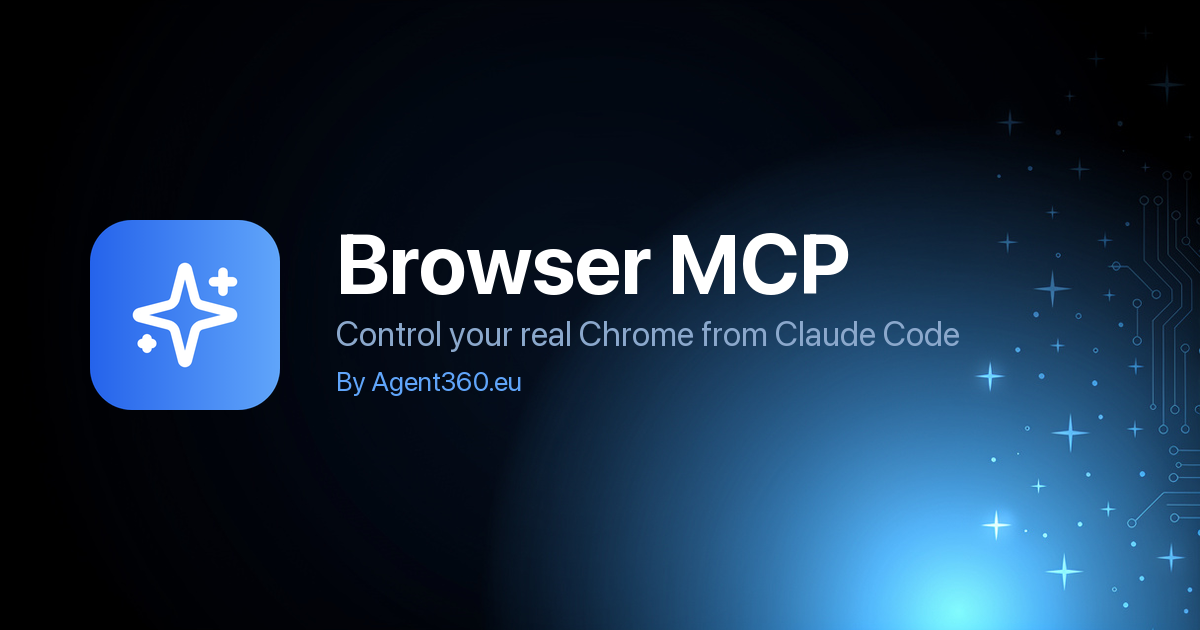
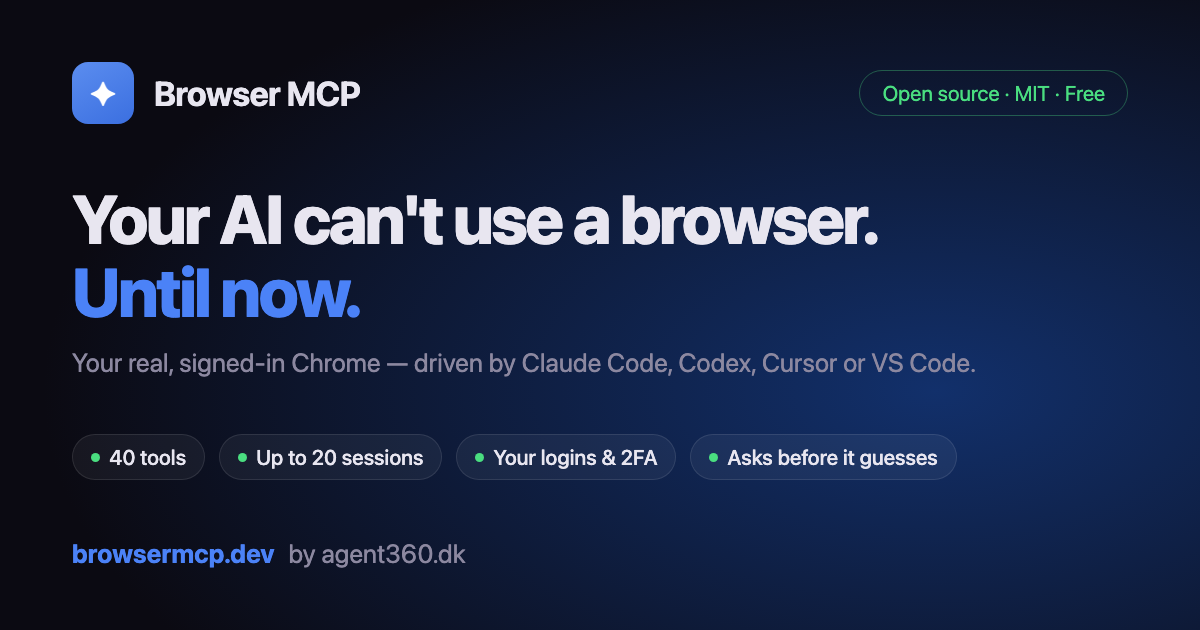
billeder: delingsbilledet sagde "34 tools" og forkert domaene - nu bygget fra kilden
MAALT 11/9: `docs/og-image.jpg` - billedet der vises hver gang browsermcp.dev
deles, og som ligger live - sagde "34 tools" og "by agent360.eu". Begge dele er
forkerte (40 vaerktoejer, agent360.dk), og de har staaet siden juni, fordi ingen
tekstvagt kan laese en JPEG. Demo-videoens scene sagde "21 tools".

- Ny kilde `demo-video-src/src/Social.tsx`: ét motiv i to formater (OgImage
  1200x630 til sitet, GithubSocial 1280x640 til GitHubs forhaandsbillede).
  Tekst: 40 tools · Up to 20 sessions · Your logins & 2FA · Asks before it
  guesses · browsermcp.dev by agent360.dk.
- Renderet til docs/og-image.jpg + .png og docs/github-social-1280x640.png.
- `test/billedkilder-tal.test.mjs`: billedkildernes vaerktoejstal skal vaere lig
  antallet i mcp-server/tools.js, domaenet skal vaere .dk, kompositionerne skal
  findes i de rigtige formater, og de billeder sitet peger paa skal eksistere.
  Kildekommentarer maa citere det de erstatter (samme regel som loefte-vagten).

Mutationsbevis 4/4.

diff --git a/demo-video-src/src/Social.tsx b/demo-video-src/src/Social.tsx
@@ -1,0 +1,85 @@
+import React from "react";
+import { AbsoluteFill } from "remotion";
+
+// Delingsbilledet (Open Graph) og GitHubs forhaandsbillede.
+//
+// MAALT 11/9-2026: det billede der laa live paa browsermcp.dev - og som blev vist hver gang linket blev delt - sagde
+// "34 tools" og "by agent360.eu". Begge dele var forkerte, og de havde staaet siden juni, fordi ingen vagt kan laese en
+// JPEG. Billedet bygges derfor herfra, og `test/billedkilder-tal.test.mjs` holder tallet op mod mcp-server/tools.js.
+
+const BG = "#0B0A12";
+const INK = "#E8E6F0";
+const DIM = "#8C88A0";
+const BLUE = "#4B82F7";
+const GREEN = "#4ADE80";
+const SANS = "Inter, -apple-system, BlinkMacSystemFont, 'Segoe UI', sans-serif";
+
+const Maerke: React.FC<{ size: number }> = ({ size }) => (
+  <div style={{
+    width: size, height: size, borderRadius: size * 0.26,
+    background: "linear-gradient(150deg, #5B8DEF 0%, #3B6FE0 100%)",
+    display: "flex", alignItems: "center", justifyContent: "center",
+    color: "#fff", fontSize: size * 0.52, fontWeight: 700,
+  }}>✦</div>
+);
+
+const Chip: React.FC<{ children: React.ReactNode; skala: number }> = ({ children, skala }) => (
+  <div style={{
+    display: "flex", alignItems: "center", gap: 9 * skala,
+    background: "rgba(255,255,255,0.05)", border: "1px solid rgba(255,255,255,0.10)",
+    borderRadius: 99, padding: `${10 * skala}px ${18 * skala}px`,
+    fontSize: 21 * skala, color: INK, fontWeight: 500,
+  }}>
+    <span style={{ width: 9 * skala, height: 9 * skala, borderRadius: 99, background: GREEN }} />
+    {children}
+  </div>
+);
+
+// Ét motiv, to formater: 1200x630 (Open Graph) og 1280x640 (GitHub).
+export const Social: React.FC<{ bredde?: number }> = ({ bredde = 1200 }) => {
+  const skala = bredde / 1200;
+  return (
+    <AbsoluteFill style={{
+      background: `radial-gradient(120% 120% at 78% 62%, #12306B 0%, ${BG} 62%)`,
+      fontFamily: SANS, color: INK, padding: `${62 * skala}px ${72 * skala}px`, justifyContent: "space-between",
+    }}>
+      <div style={{ display: "flex", alignItems: "center", justifyContent: "space-between" }}>
+        <div style={{ display: "flex", alignItems: "center", gap: 20 * skala }}>
+          <Maerke size={62 * skala} />
+          <div style={{ fontSize: 34 * skala, fontWeight: 700, letterSpacing: "-0.02em" }}>Browser MCP</div>
+        </div>
+        <div style={{
+          border: "1px solid rgba(74,222,128,0.35)", borderRadius: 99,
+          padding: `${10 * skala}px ${22 * skala}px`, fontSize: 21 * skala, color: GREEN,
+        }}>Open source · MIT · Free</div>
+      </div>
+
+      <div>
+        <div style={{ fontSize: 68 * skala, fontWeight: 800, letterSpacing: "-0.035em", lineHeight: 1.08 }}>
+          Your AI can&apos;t use a browser.
+        </div>
+        <div style={{ fontSize: 68 * skala, fontWeight: 800, letterSpacing: "-0.035em", lineHeight: 1.08, color: BLUE }}>
+          Until now.
+        </div>
+        <div style={{ fontSize: 26 * skala, color: DIM, marginTop: 18 * skala }}>
+          Your real, signed-in Chrome — driven by Claude Code, Codex, Cursor or VS Code.
+        </div>
+      </div>
+
+      <div style={{ display: "flex", gap: 14 * skala, flexWrap: "wrap" }}>
+        <Chip skala={skala}>40 tools</Chip>
+        <Chip skala={skala}>Up to 20 sessions</Chip>
+        <Chip skala={skala}>Your logins &amp; 2FA</Chip>
+        <Chip skala={skala}>Asks before it guesses</Chip>
+      </div>
+
+      <div style={{ display: "flex", alignItems: "baseline", gap: 14 * skala, fontSize: 26 * skala }}>
+        <span style={{ color: BLUE, fontWeight: 700 }}>browsermcp.dev</span>
+        <span style={{ color: DIM }}>by agent360.dk</span>
+      </div>
+    </AbsoluteFill>
+  );
+};
+
+export const OgImage: React.FC = () => <Social bredde={1200} />;
+export const GithubSocial: React.FC = () => <Social bredde={1280} />;

diff --git a/demo-video-src/src/Root.tsx b/demo-video-src/src/Root.tsx
@@ -3,6 +3,7 @@ import { Composition } from "remotion";
 import { Demo } from "./Demo";
 import { Hero, HERO_DURATION } from "./Hero";
 import { StoreShots, STORE_COUNT, PromoTile, MarqueeTile } from "./Store";
+import { OgImage, GithubSocial } from "./Social";
 
 // 100 + 90 + 255 + 255 + 235 + 235 + 215 + 235 + 140 = 1760 (~59 sec)
 export const RemotionRoot: React.FC = () => {
@@ -27,6 +28,9 @@ export const RemotionRoot: React.FC = () => {
       />
       {/* Butikkens smaa brik (soegeresultater) og marquee (featuring) */}
       <Composition id="PromoTile" component={PromoTile} durationInFrames={1} fps={1} width={440} height={280} />
+      {/* Delingsbilledet (Open Graph, 1200x630) og GitHubs forhaandsbillede (1280x640) - ét motiv, to formater. */}
+      <Composition id="OgImage" component={OgImage} durationInFrames={1} fps={1} width={1200} height={630} />
+      <Composition id="GithubSocial" component={GithubSocial} durationInFrames={1} fps={1} width={1280} height={640} />
       <Composition id="MarqueeTile" component={MarqueeTile} durationInFrames={1} fps={1} width={1400} height={560} />
       <Composition
         id="Demo"

diff --git a/demo-video-src/src/Demo.tsx b/demo-video-src/src/Demo.tsx
@@ -457,7 +457,7 @@ const TitleCard: React.FC = () => {
         fontSize: 15, color: "#3b82f6", fontFamily: "SF Mono, monospace", marginTop: 6,
         opacity: interpolate(frame, [18, 30], [0, 1], { extrapolateRight: "clamp" }),
       }}>
-        21 tools · Your real logins · CSP bypass · Human-in-the-loop
+        40 tools · Your real logins · CSP bypass · Human-in-the-loop
       </div>
       <div style={{
         display: "flex", gap: 14, marginTop: 20,

diff --git a/CHANGELOG.md b/CHANGELOG.md
@@ -44,6 +44,7 @@ Every change below was written test-first and checked with a mutation test: the 
 - `llms-install.md` is published on browsermcp.dev (it returned 404).
 - The comparison with browsermcp.io was updated with numbers re-pulled on 2026-09-11.
 - The demo GIF on the npm page uses an absolute address.
+- The picture shown whenever browsermcp.dev is shared said "34 tools" and named the wrong domain, and had done so since June — no text check can read a JPEG. It is now built from source (`demo-video-src`), together with a matching image for GitHub, and a test keeps the numbers in those sources equal to the number of tools in the server.
 - The demo video and GIF were re-rendered from the current build. The old ones were from June, before the tool count and the wording changed; the GIF is also smaller than before (1.8 MB against 2.1 MB).
 
 ## 1.29.0 (2026-09-07)
